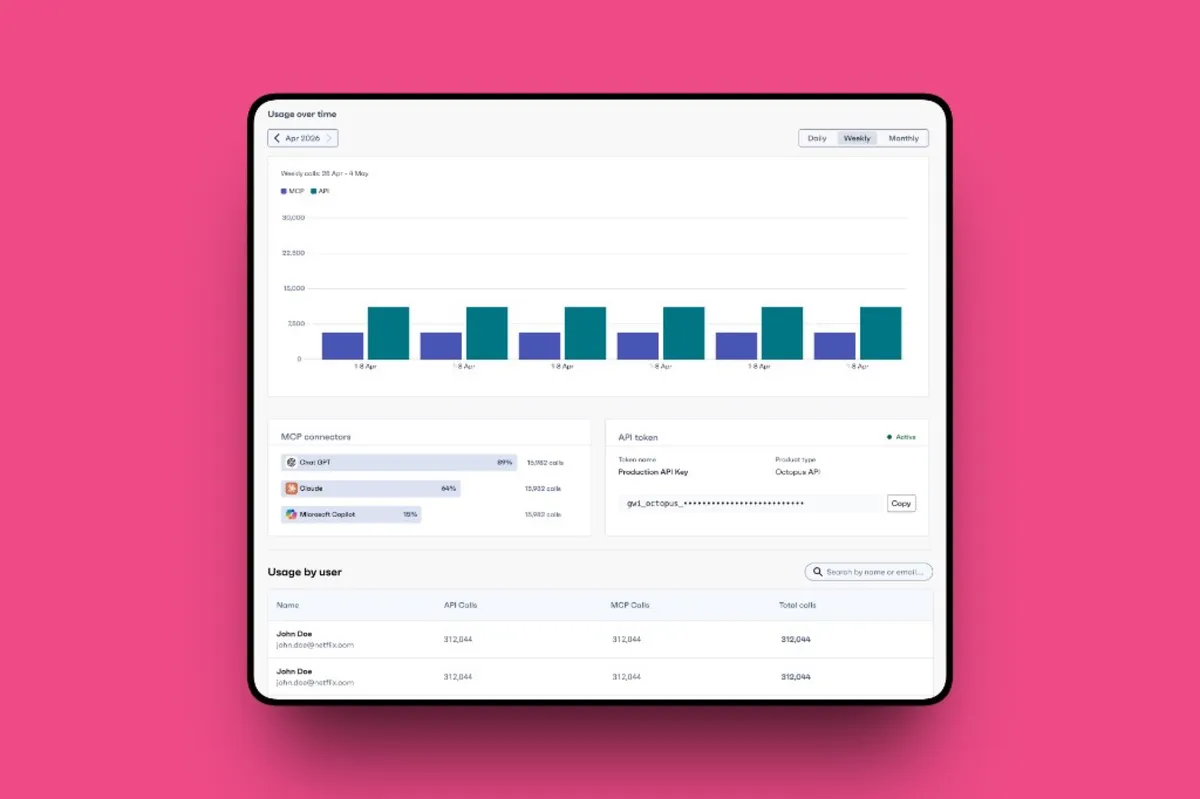
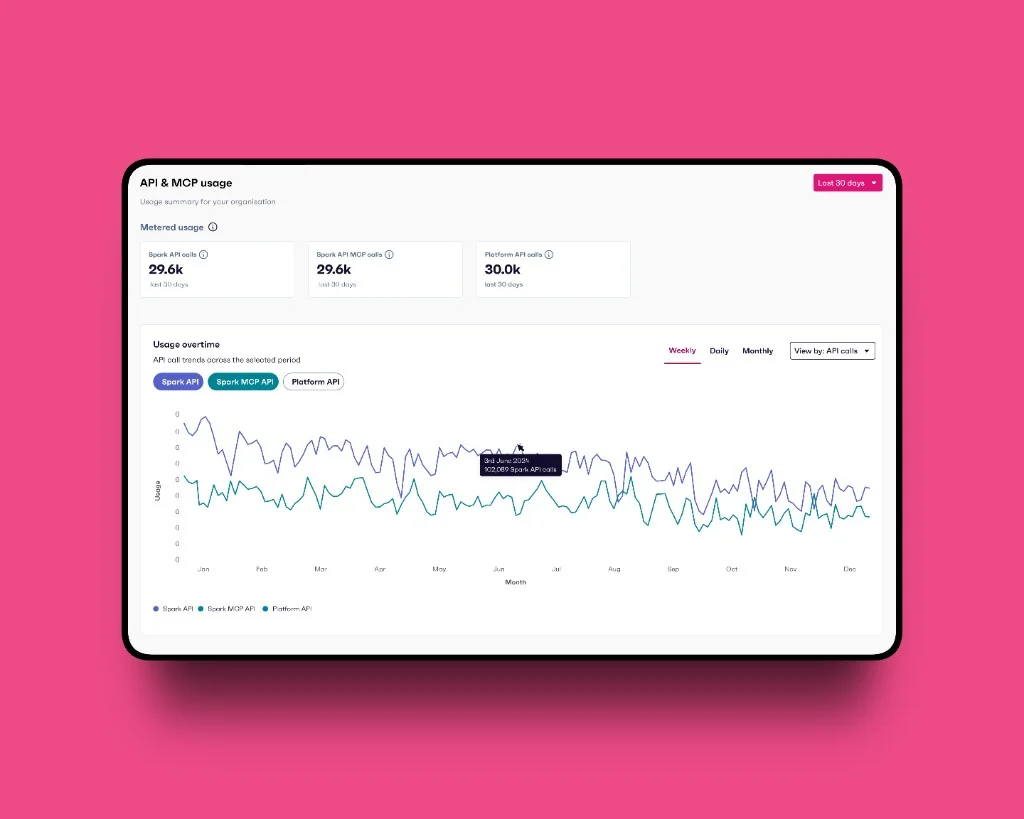
Update GWI hero art and usage dashboard on the case study page.
Refresh the API cover asset and hero framing so the full mockup reads clearly, and swap in the first-draft usage dashboard screenshot.

diff --git a/gwi.html b/gwi.html
@@ -141,10 +141,10 @@
         <div class="csd-hero__cover-inner">
           <img
             src="assets/GWI/API%20cover.png"
-            width="2048"
-            height="1364"
+            width="1024"
+            height="819"
             alt="GWI API and MCP usage dashboard"
-            style="width:100%;height:100%;object-fit:cover;border-radius:inherit;"
+            style="width:100%;height:100%;border-radius:inherit;"
           />
         </div>
       </div>
@@ -605,10 +605,10 @@
         <div class="csd-gwi-ds-placeholder__frame">
           <img
             class="csd-gwi-ds-placeholder__img"
-            src="assets/GWI/Future%20direction%20API%20MCP%20usage.png"
-            alt="API and MCP usage dashboard in progress: usage over time chart, MCP connectors, API token management, and usage by user table."
+            src="assets/GWI/Usage%20dashboard%20-%20First%20draft.png"
+            alt="API and MCP usage dashboard: metered usage summary for Spark API, Spark MCP API, and Platform API calls, with usage over time chart."
             width="1024"
-            height="887"
+            height="653"
             loading="lazy"
             decoding="async"
           />

diff --git a/styles.css b/styles.css
@@ -14075,6 +14075,15 @@ section.pins-final-designs {
 }
 
 /* GWI: impact header tighter to body (list / narrative intro) */
+.csd-case--gwi .csd-hero__cover {
+  aspect-ratio: 5 / 4;
+}
+
+.csd-case--gwi .csd-hero__cover img {
+  object-fit: contain;
+  object-position: center center;
+}
+
 .csd-case--gwi .csd-impact {
   gap: 22px;
 }
